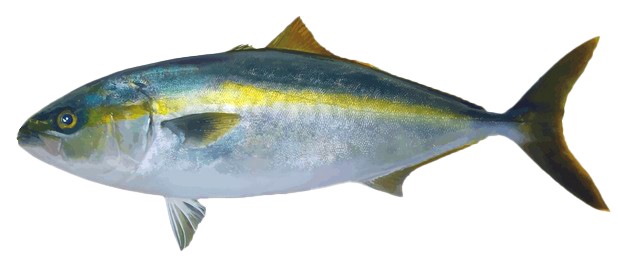
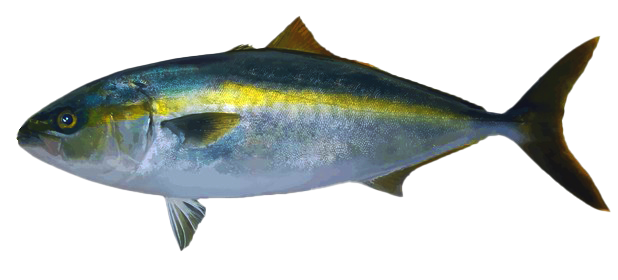
色調整

diff --git a/src/App.vue b/src/App.vue
@@ -216,11 +216,11 @@ function handleKeydown(e) {
 
 function initThreeJS() {
   const width = window.innerWidth;
-  const height = window.innerHeight;
-
-  scene = new THREE.Scene();
-  scene.background = new THREE.Color(0x193255);
-  scene.fog = new THREE.Fog(0x193255, 0, 28);
+  const height = window.innerHeight;  scene = new THREE.Scene();
+  // 海中背景色（定数使用）
+  scene.background = new THREE.Color(toHex(OCEAN_COLORS.SKY_BLUE));
+  // フォグ（背景と同じ色で境界をなじませる）
+  scene.fog = new THREE.Fog(toHex(OCEAN_COLORS.SKY_BLUE), 3, 28);
 
   camera = new THREE.PerspectiveCamera(75, width / height, 0.1, 1000);
   camera.position.set(4, 7, 7);
@@ -243,25 +243,53 @@ function initThreeJS() {
 
   controls = new OrbitControls(camera, renderer.domElement);
   controls.enableDamping = true; // なめらかな操作
-  controls.dampingFactor = 0.1;
-
-  // 地面メッシュ追加
+  controls.dampingFactor = 0.1;  // 地面メッシュ追加 - 少し明るい海底色
   const groundGeo = new THREE.PlaneGeometry(1000, 1000);
-  const groundMat = new THREE.MeshStandardMaterial({ color: 0x183050, roughness: 0.8, depthTest: true });
+  const groundMat = new THREE.MeshStandardMaterial({ 
+    color: toHex(OCEAN_COLORS.SEAFLOOR), // 海底色（定数使用）
+    roughness: 0.8, 
+    depthTest: true 
+  });
   const ground = new THREE.Mesh(groundGeo, groundMat);
   ground.rotation.x = -Math.PI / 2;
   ground.position.y = -10;
-  ground.receiveShadow = true; // 影を受ける
-  scene.add(ground);
-
-  // ライト
-  const ambientLight = new THREE.AmbientLight(0xa2b7d4, 1);
+  ground.receiveShadow = true; // 影を受ける  scene.add(ground);
+  
+  // 地面と背景の境界をなじませるソフトオーバーレイ
+  const horizonGeo = new THREE.PlaneGeometry(2000, 40);
+  const horizonMat = new THREE.MeshBasicMaterial({
+    color: toHex(OCEAN_COLORS.SKY_BLUE), // 背景と同じ色（定数使用）
+    transparent: true,
+    opacity: 0.3,
+    depthTest: false
+  });
+  const horizon = new THREE.Mesh(horizonGeo, horizonMat);
+  horizon.rotation.x = -Math.PI / 2;
+  horizon.position.y = -8; // 地面より少し上
+  scene.add(horizon);
+  
+  // 海中の環境光（定数使用）
+  const ambientLight = new THREE.AmbientLight(toHex(OCEAN_COLORS.AMBIENT_LIGHT), 0.2);
   scene.add(ambientLight);
 
-  // 太陽光（やや暖色のDirectionalLight）
-  const dirLight = new THREE.DirectionalLight(0x88a5cf, 15); // 暖色＆強め
-  dirLight.position.set(300, 500, 200); // 高い位置から照らす
+  // メインの太陽光（定数使用）
+  const dirLight = new THREE.DirectionalLight(toHex(OCEAN_COLORS.SUN_LIGHT), 10.0);
+  dirLight.position.set(0, 100, 30);
   dirLight.castShadow = true;
+  
+  // 補助光1（定数使用）
+  const sideLight1 = new THREE.DirectionalLight(toHex(OCEAN_COLORS.SIDE_LIGHT1), 2.5);
+  sideLight1.position.set(80, 60, 40);
+  scene.add(sideLight1);
+    // 補助光2（定数使用）
+  const sideLight2 = new THREE.DirectionalLight(toHex(OCEAN_COLORS.SIDE_LIGHT2), 2.0);
+  sideLight2.position.set(-60, 40, 20);
+  scene.add(sideLight2);
+  
+  // 下からの反射光（定数使用）
+  const bottomLight = new THREE.DirectionalLight(toHex(OCEAN_COLORS.BOTTOM_LIGHT), 3);
+  bottomLight.position.set(0, -30, 0);
+  scene.add(bottomLight);
 
   // 影カメラの範囲を広げる
   dirLight.shadow.camera.left = -100;
@@ -275,7 +303,6 @@ function initThreeJS() {
   dirLight.shadow.mapSize.height = 2048;
   dirLight.shadow.bias = -0.001;
   dirLight.shadow.normalBias = 0.01;
-
   scene.add(dirLight);
   // EffectComposer の初期化（スマホ以外の場合のみ）
   if (!isMobileDevice()) {
@@ -960,6 +987,31 @@ watch(showUnits, handleUnitsVisibilityChange);
 
 // Unit表示モードの変更を監視
 watch([showUnitSpheres, showUnitLines], handleUnitDisplayModeChange);
+
+// 海中色彩テーマ定数（調整しやすくするため統一管理）
+// VS Codeのカラーピッカーで色を確認・調整できます
+const OCEAN_COLORS = {
+  // 背景とフォグ系
+  SKY_BLUE: '#019dff',      // 明るい海中ブルー（上層）
+  DEEP_BLUE: '#215a7a',     // 深い海中ブルー（中層）
+  SEAFLOOR: '#183050',      // 海底色（下層）
+  
+  // ライティング系
+  AMBIENT_LIGHT: '#6ccefc', // 環境光
+  SUN_LIGHT: '#4a8bc2',     // 太陽光
+  SIDE_LIGHT1: '#6ba3d0',   // 補助光1
+  SIDE_LIGHT2: '#2d5f7a',   // 補助光2
+  BOTTOM_LIGHT: '#0f2635',  // 底部反射光
+  
+  // 魚とエフェクト系
+  FISH_BASE: '#c8d4e6',     // 魚の基本色
+  LIGHT_RAY: '#4a8bc2',     // 光線エフェクト
+  PARTICLE: '#7fb8c4',      // パーティクル
+  SEAWEED: '#4a8c6a'        // 海藻系パーティクル
+};
+
+// 色を16進数に変換する関数
+const toHex = (colorStr) => parseInt(colorStr.replace('#', '0x'), 16);
 </script>
 
 <style>

diff --git a/src/wasm/boid_unit.cpp b/src/wasm/boid_unit.cpp
@@ -128,9 +128,9 @@ void BoidUnit::applyInterUnitInfluence(BoidUnit *other, float dt) {
     std::stack<BoidUnit *, std::vector<BoidUnit *>> stack;
     stack.push(root);
 
-    constexpr float predatorRange = 1.7f;
+    constexpr float predatorRange = 1.4f;
     constexpr float predatorRangeSq = predatorRange * predatorRange;
-    constexpr float predatorEffectRange = 1.7f;
+    constexpr float predatorEffectRange = 1.4f;
 
     while (!stack.empty()) {
       BoidUnit *current = stack.top();
@@ -274,13 +274,25 @@ void BoidUnit::applyInterUnitInfluence(BoidUnit *other, float dt) {
  */
 void BoidUnit::updateRecursive(float dt) {
   frameCount++;
+
+  // 無限再帰防止: 簡単なカウンター方式
+  static int callCount = 0;
+  callCount++;
+
+  if (callCount > 1000) {
+    callCount = 0; // リセット
+    return;        // 過度な再帰を防止
+  }
+
   std::stack<BoidUnit *, std::vector<BoidUnit *>> stack;
   stack.push(this);
   static std::vector<std::future<void>> asyncTasks;
   asyncTasks.reserve(64);       // 任意。再確保を抑える
   auto &pool = getThreadPool(); // シングルトン取得
   // 第一段階: acceleration をすべて計算
-  while (!stack.empty()) {
+  int firstStageOperations = 0;
+  while (!stack.empty() && firstStageOperations < 10000) {
+    firstStageOperations++;
     BoidUnit *current = stack.top();
     stack.pop();
     // パフォーマンス最適化: children ベクトルのサイズを事前キャッシュ
@@ -317,10 +329,12 @@ void BoidUnit::updateRecursive(float dt) {
   for (auto &f : asyncTasks)
     f.get();
   asyncTasks.clear();
-
   // 第二段階: 位置と速度を更新
   stack.push(this);
-  while (!stack.empty()) {
+  int stackOperations = 0; // スタック操作回数をカウント
+
+  while (!stack.empty() && stackOperations < 10000) {
+    stackOperations++;
     BoidUnit *current = stack.top();
     stack.pop();
 
@@ -513,6 +527,9 @@ void BoidUnit::updateRecursive(float dt) {
       }
     }
   }
+
+  // 関数終了時にカウンターをリセット
+  callCount--;
 }
 inline float BoidUnit::easeOut(float t) {
   // イージング関数 (ease-out)
